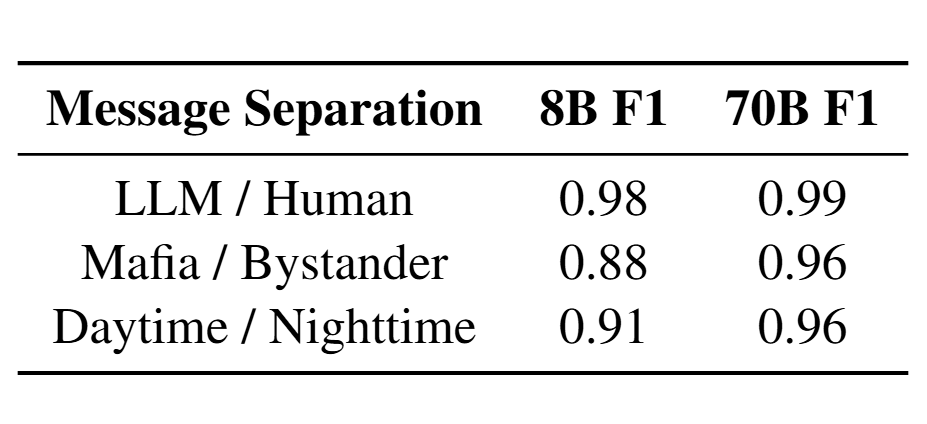
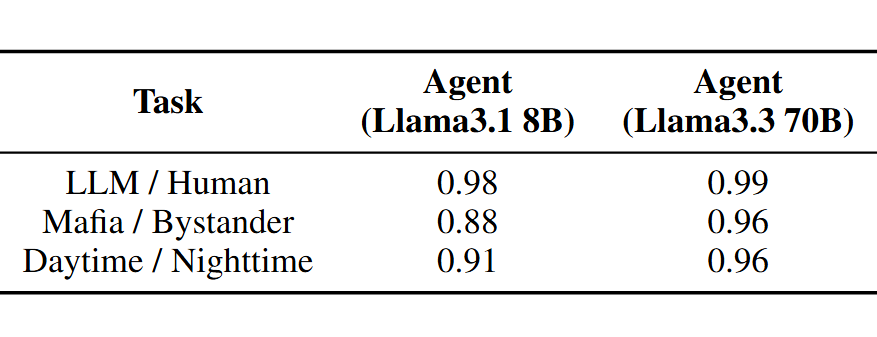
modified the classfication table phrasing

Changed region(s): [[0.0, 0.2077, 1.0, 0.8309], [0.0, 0.1187, 1.0, 0.178], [0.0, 0.8605, 1.0, 0.8902]]

diff --git a/index.html b/index.html
@@ -360,7 +360,7 @@
 
             <div class="column">
               <img src="static/images/classification_table.png" alt="Message embedding separation classification" class="blend-img-background center-image" style="max-width: 85%; height: auto;" />
-              Separation performance by a linear classifier for message embeddings, by different features. <b>8B F1</b> and <b>70B F1</b> represent the F1 scores for analysis over games played with the 8B parameter LLM and the 70B parameter LLM, respectively.
+              Separation performance by a linear classifier for message embeddings. The two <b>Agent</b> columns represent the F1 scores for analysis over games played with the corresponding LLMs.
             </div>
           </div>
         </div>
